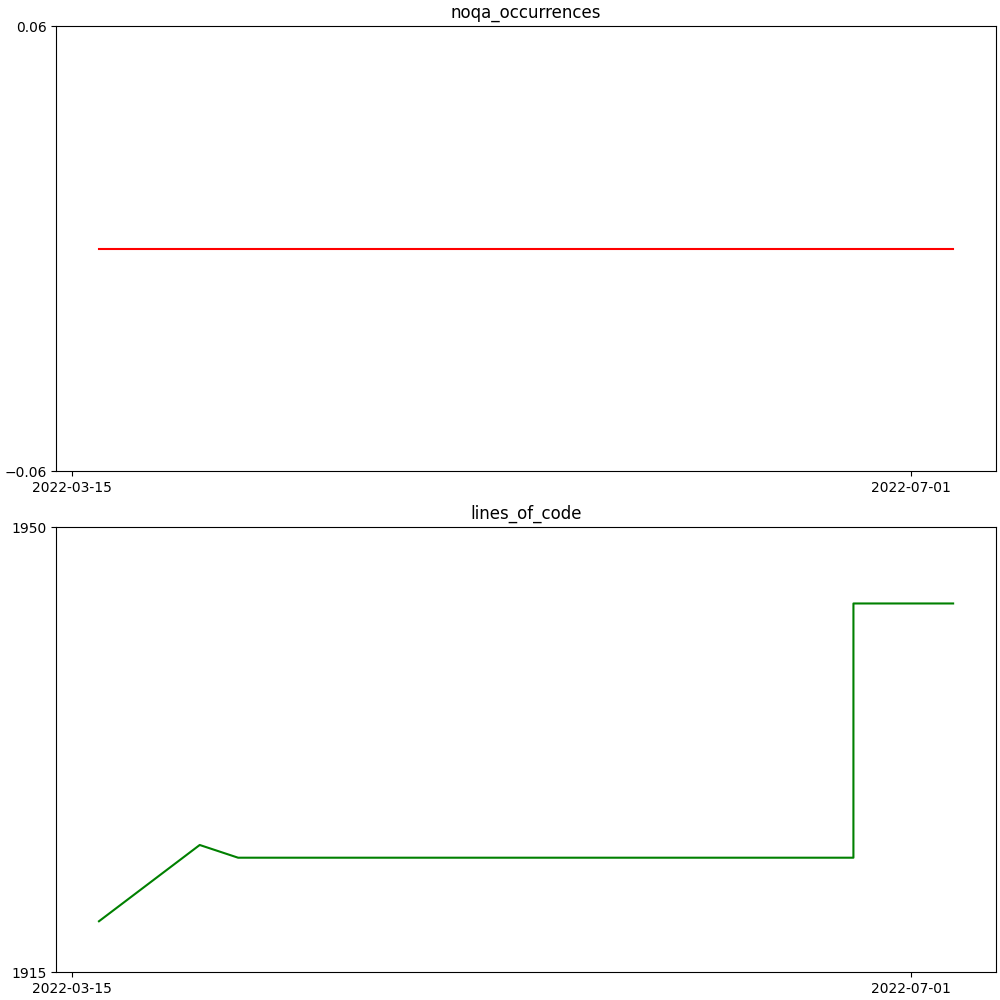
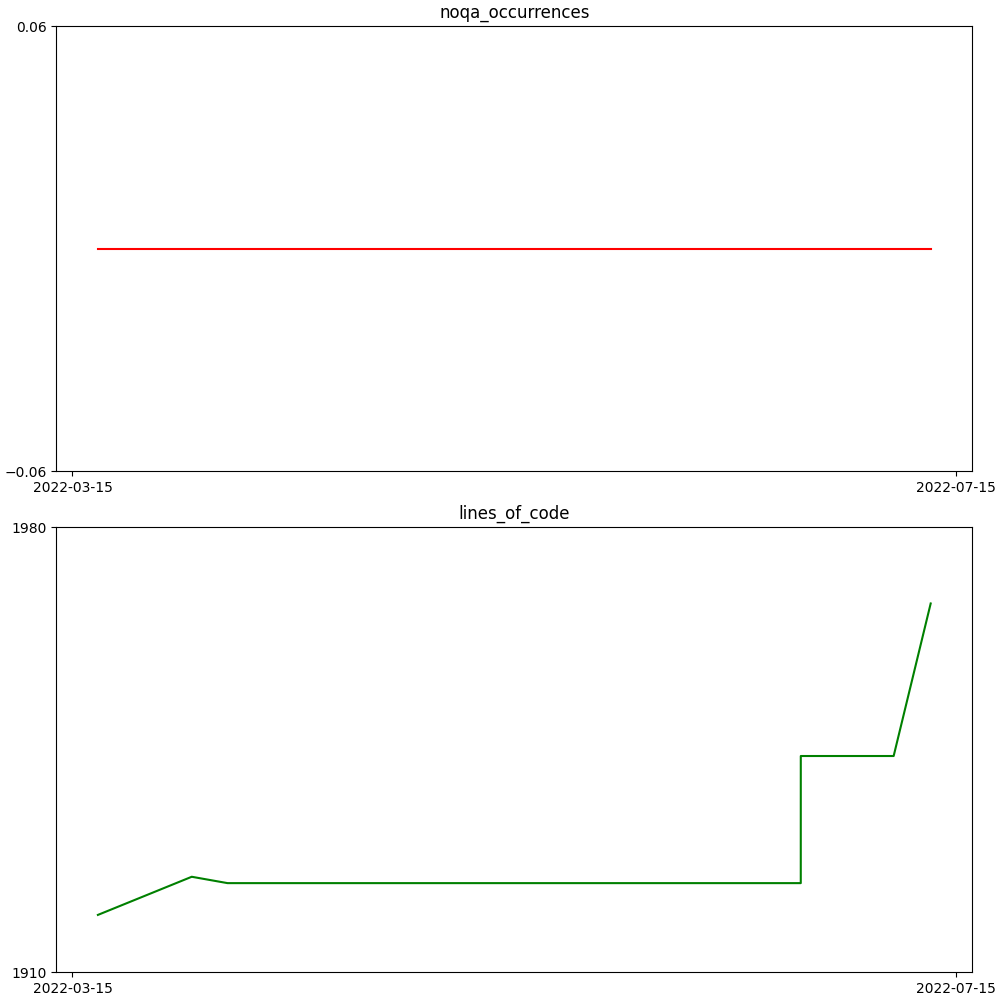
Feature - TRSV2-190 - Feature Flags (#18)
* [ci skip] AUTOMATED - update fitness functions

* V2feature/trsv2 206/v2 registration journey unhappy path (#15)

* Preliminary work on implementing the V2 login journey

* V2 login journey, minor changes.

failed GET requests now raise the exception so any errors can be rendered in the front-end

* black reformatting

* [ci skip] AUTOMATED - update fitness functions

* [ci skip] AUTOMATED - update fitness functions

* Added v2 register journey methods

* Added v2 register journey methods

* [ci skip] AUTOMATED - update fitness functions

* Added v2 email verification methods

* Black formatting

* [ci skip] AUTOMATED - update fitness functions

* black and flake8

* [ci skip] AUTOMATED - update fitness functions

* [ci skip] AUTOMATED - update fitness functions

* [ci skip] AUTOMATED - update fitness functions

* V2 get cases endpoints

* black formatting

* [ci skip] AUTOMATED - update fitness functions

* V2feature/trsv2 174/login journey (#16)

* Preliminary work on implementing the V2 login journey

* V2 login journey, minor changes.

failed GET requests now raise the exception so any errors can be rendered in the front-end

* black reformatting

* [ci skip] AUTOMATED - update fitness functions

* [ci skip] AUTOMATED - update fitness functions

* Black formatting

* [ci skip] AUTOMATED - update fitness functions

* [ci skip] AUTOMATED - update fitness functions
[…]

diff --git a/trade_remedies_client/lib.py b/trade_remedies_client/lib.py
@@ -1,8 +1,10 @@
 import json
 import logging
+
 from cache_memoize import cache_memoize
 from django.conf import settings
 from requests.exceptions import HTTPError
+
 from .exceptions import APIException
 
 FEATURE_FLAGS_TTL = getattr(settings, "FEATURE_FLAGS_TTL", 5 * 60)
@@ -1720,3 +1722,23 @@ def v2_get_all_cases(self, params=None):
 
 def v2_get_case(self, case_id):
     return self.get_one(f"/v2_cases/{case_id}")
+
+
+def v2_get_all_feature_flags(self):
+    return self.get_many("/core/django-feature-flags")
+
+
+def v2_get_one_feature_flag(self, feature_flag_name):
+    return self.get_one(f"/core/django-feature-flags/{feature_flag_name}/")
+
+
+def v2_is_user_feature_flag_activated(self, user_pk, feature_flag_name):
+    return self.get_one(f"/core/users/{user_pk}/{feature_flag_name}/")
+
+
+def v2_change_user_group(self, user_pk, group_name, request_method):
+    return self.post(
+        f"/core/users/{user_pk}/add_group/",
+        data={"group_name": group_name},
+        request_type=request_method,
+    )

diff --git a/trade_remedies_client/client.py b/trade_remedies_client/client.py
@@ -97,12 +97,14 @@ class Client:
         else:
             raise Exception("Invalid response")
 
-    def post(self, path, data=None, files=None, extra_headers=None):
+    def post(self, path, data=None, files=None, extra_headers=None, request_type="post"):
         _headers = self.headers(extra_headers=extra_headers)
         data = data or {}
         try:
             _url = self.get_url(path)
-            response = requests.post(_url, data=data, headers=_headers, files=files)
+            response = getattr(requests, request_type)(
+                _url, data=data, headers=_headers, files=files
+            )
             response.raise_for_status()
         except requests.exceptions.HTTPError as http_exception:
             raise APIException(http_exception)
